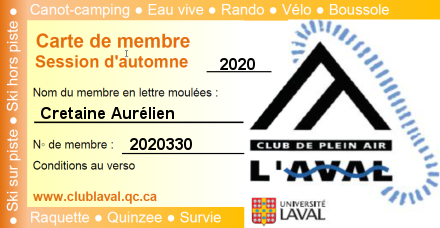
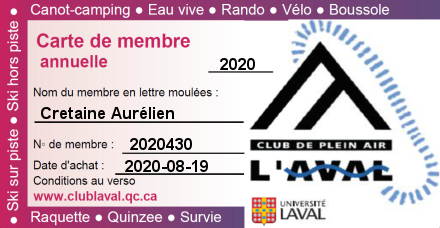
Ajout variable environement

diff --git a/app.js b/app.js
@@ -4,7 +4,7 @@ const utils = require('./utils/utilitaires.js');
 const expressHandle = require('express-handlebars');
 const bodyParser = require('body-parser');
 const helper = require('./utils/helperscomponents.js');
-var path = require('path');
+const configs = require('./config');
 
 var app = module.exports = express();
 app.set('port', process.env.PORT || 3001);
@@ -18,7 +18,6 @@ var hbs = expressHandle.create({
 //définition du moteur de rendu (ici handlebars)
 app.engine('handlebars', hbs.engine);
 app.set('view engine', 'handlebars');
-//app.set('view', path.join(__dirname, "views"));
 
 //Ouverture d'un dossier public
 app.use(express.static('public/'));
@@ -44,8 +43,6 @@ var membreController = require('./controller/membreController');
 app.use(membreController);
 var homeController = require('./controller/homeController');
 app.use(homeController);
-
-
 
 
 //Création sur serveur web

diff --git a/db/baseDB.js b/db/baseDB.js
@@ -2,11 +2,11 @@ const { Pool } = require('pg');
 
 //TODO: odifier la section pour ajouter des variables d'environement
 const pool = new Pool({
-    user: 'xtrtdlyjfpawxm',
-    host: 'ec2-54-247-103-43.eu-west-1.compute.amazonaws.com',
-    database: 'd9rl40ucgr7bta',
[1 lines of base64/hex data omitted]
-    port: 5432,
+    user: process.env.PG_USER,
+    host: process.env.PG_HOST,
+    database: process.env.PG_DATABASE,
+    password: process.env.PG_PASSWD,
+    port: process.env.PG_PORT,
     ssl: { rejectUnauthorized: false }
 });
 

diff --git a/config.js b/config.js
@@ -1,5 +1,17 @@
+const _ = require('underscore');
+
 var env = process.env.NODE_ENV || 'dev';
 
 var config = require('./configs/config.json')[env];
 
+_.extend(process.env, config);
+
+
 module.exports = config;
+
+// var env = process.env.NODE_ENV || 'dev';
+
+// var config = require('./configs/config.json')['prod'];
+// config.infoDebit.rivieres = require('./configs/rivieres.json');
+
+// module.exports = config;

diff --git a/services/genererCarteMembre.js b/services/genererCarteMembre.js
@@ -14,6 +14,10 @@ function GenererCarteMembre(infoCarte, callback) {
         fs.unlinkSync(fileName);
     }
 
+    if (infoCarte.type_carte === 'Annuelle') {
+        dateAchat = infoCarte.date_debut;
+    }
+
     loadImage(infoCarte.url_carte).then(image => {
         context.drawImage(image, 0, 0, 440, 228);
 
